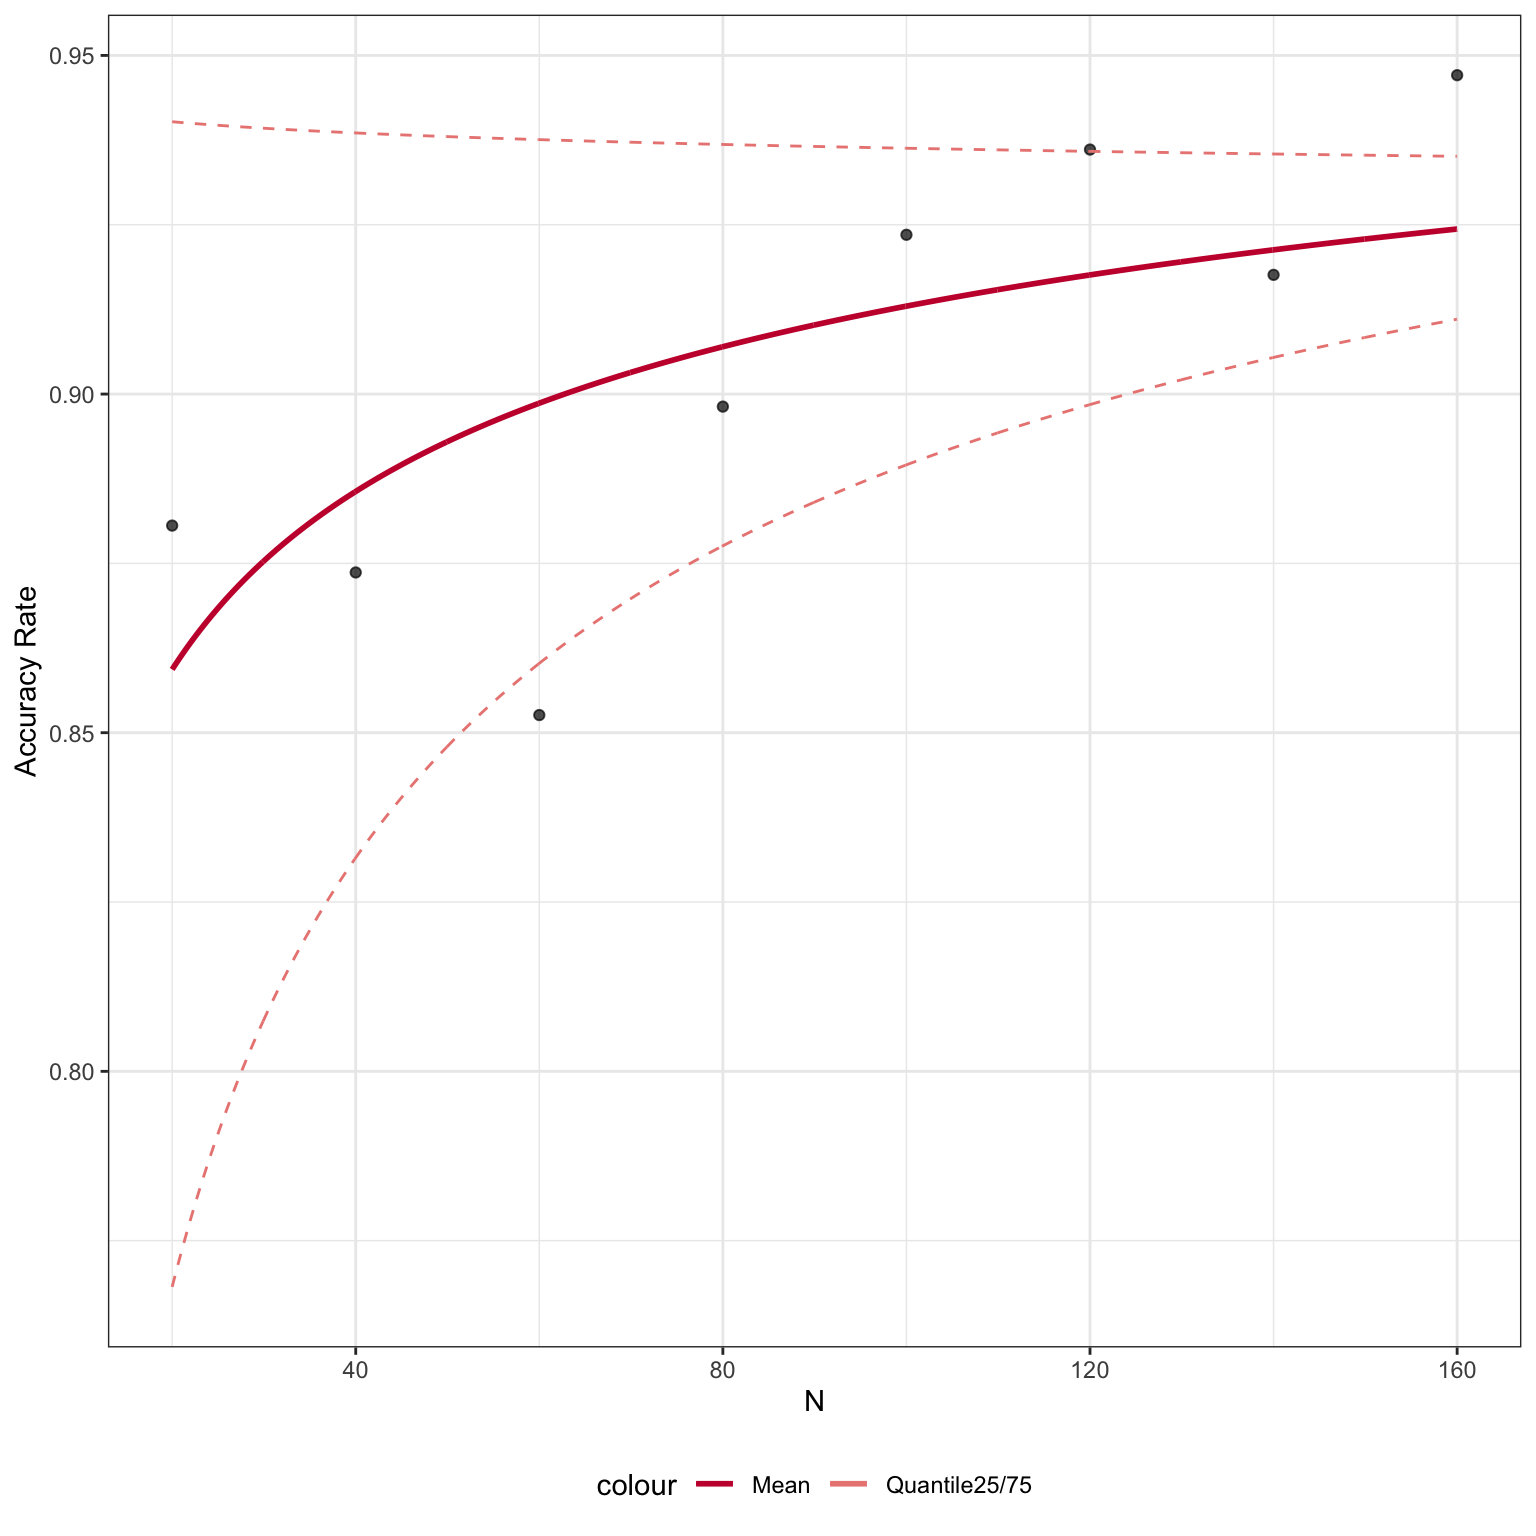
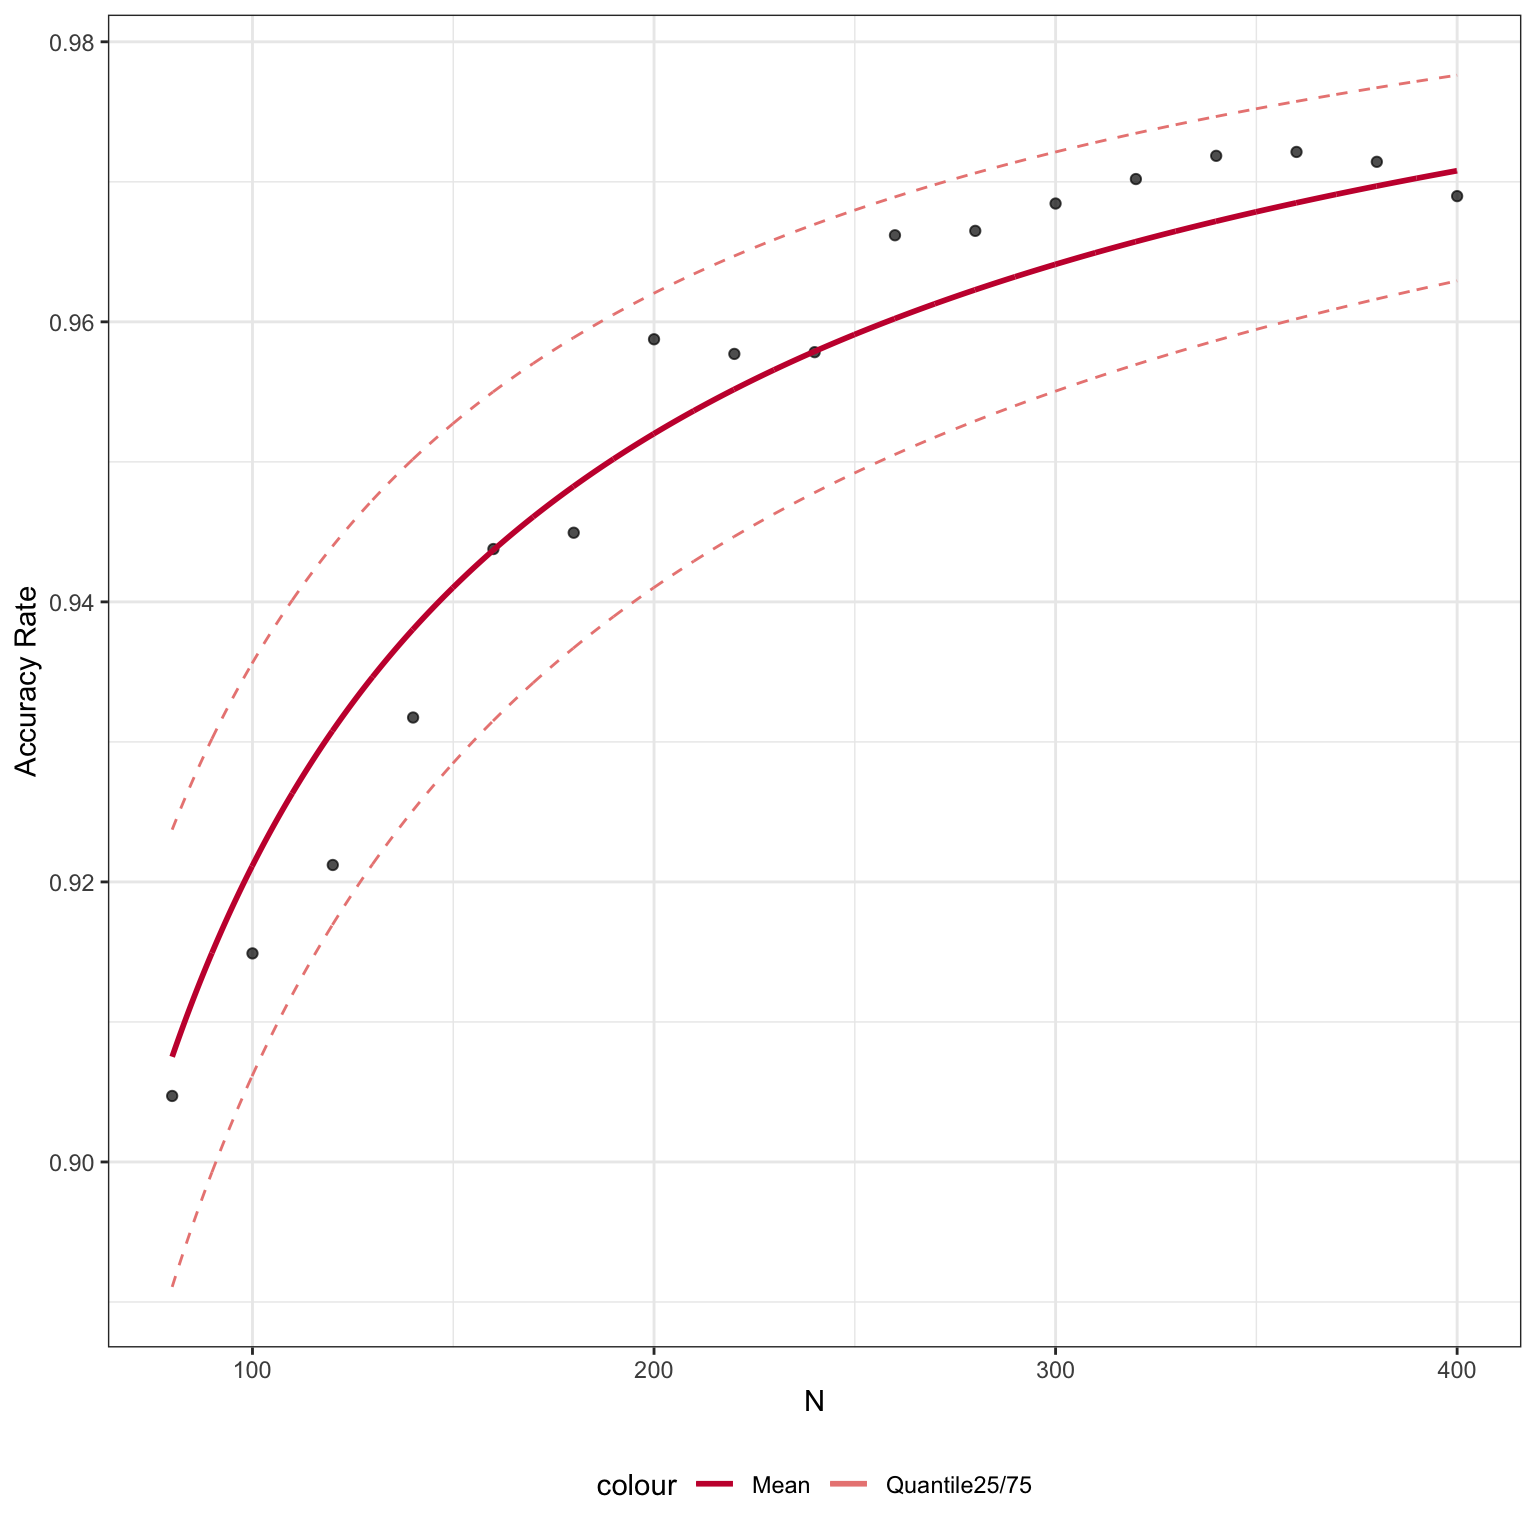
update sample size calculation

diff --git a/docs/articles/webOnly/sampleSizeCal.html b/docs/articles/webOnly/sampleSizeCal.html
@@ -212,8 +212,9 @@
 <div class="sourceCode" id="cb4"><pre class="sourceCode r"><code class="sourceCode r"><a class="sourceLine" id="cb4-1" data-line-number="1"><span class="kw"><a href="https://rdrr.io/r/base/Random.html">set.seed</a></span>(<span class="dv">2019</span>)</a>
 <a class="sourceLine" id="cb4-2" data-line-number="2"><span class="kw"><a href="https://rdrr.io/r/base/system.time.html">system.time</a></span>(accMat &lt;-<span class="st"> </span><span class="kw"><a href="../../reference/runSampleCal.html">runSampleCal</a></span>(exprsMat_xin_subset, </a>
 <a class="sourceLine" id="cb4-3" data-line-number="3">                                   xin_cellTypes,</a>
-<a class="sourceLine" id="cb4-4" data-line-number="4">                                   <span class="dt">n_list =</span> <span class="kw"><a href="https://rdrr.io/r/base/seq.html">seq</a></span>(<span class="dv">20</span>, <span class="dv">160</span>, <span class="dv">20</span>), </a>
-<a class="sourceLine" id="cb4-5" data-line-number="5">                                   <span class="dt">num_repeat =</span> <span class="dv">10</span>, <span class="dt">BPPARAM =</span> BiocParallel<span class="op">::</span><span class="kw"><a href="https://rdrr.io/pkg/BiocParallel/man/SerialParam-class.html">SerialParam</a></span>()))</a></code></pre></div>
+<a class="sourceLine" id="cb4-4" data-line-number="4">                                   <span class="dt">n_list =</span> <span class="kw"><a href="https://rdrr.io/r/base/seq.html">seq</a></span>(<span class="dv">80</span>, <span class="dv">400</span>, <span class="dv">20</span>), </a>
+<a class="sourceLine" id="cb4-5" data-line-number="5">                                   <span class="dt">num_repeat =</span> <span class="dv">20</span>,</a>
+<a class="sourceLine" id="cb4-6" data-line-number="6">                                   <span class="dt">BPPARAM =</span> BiocParallel<span class="op">::</span><span class="kw"><a href="https://rdrr.io/pkg/BiocParallel/man/MulticoreParam-class.html">MulticoreParam</a></span>(<span class="dt">workers =</span> <span class="dv">4</span>)))</a></code></pre></div>
 <p>After we obtain an accuracy matrix, we can fit the learning curve by using the <code>learningCurve</code> function.</p>
 <div class="sourceCode" id="cb5"><pre class="sourceCode r"><code class="sourceCode r"><a class="sourceLine" id="cb5-1" data-line-number="1">res &lt;-<span class="st"> </span><span class="kw"><a href="../../reference/learningCurve.html">learningCurve</a></span>(<span class="dt">accMat =</span> accMat,</a>
 <a class="sourceLine" id="cb5-2" data-line-number="2">                     <span class="dt">n =</span> <span class="kw"><a href="https://rdrr.io/r/base/numeric.html">as.numeric</a></span>(<span class="kw"><a href="https://rdrr.io/r/base/colnames.html">colnames</a></span>(accMat)))</a></code></pre></div>
@@ -223,18 +224,18 @@
 <a class="sourceLine" id="cb6-3" data-line-number="3"><span class="co">#&gt;   model: acc ~ I(1/n^(c) * a) + b</span></a>
 <a class="sourceLine" id="cb6-4" data-line-number="4"><span class="co">#&gt;    data: dat_train</span></a>
 <a class="sourceLine" id="cb6-5" data-line-number="5"><span class="co">#&gt;                 a.(Intercept) c.log(max(acc) + 0.001 - acc) </span></a>
-<a class="sourceLine" id="cb6-6" data-line-number="6"><span class="co">#&gt;                       -2.1709                        0.7204 </span></a>
+<a class="sourceLine" id="cb6-6" data-line-number="6"><span class="co">#&gt;                       -2.2881                        0.7493 </span></a>
 <a class="sourceLine" id="cb6-7" data-line-number="7"><span class="co">#&gt;                             b </span></a>
 <a class="sourceLine" id="cb6-8" data-line-number="8"><span class="co">#&gt;                        1.0000 </span></a>
-<a class="sourceLine" id="cb6-9" data-line-number="9"><span class="co">#&gt;  residual sum-of-squares: 0.02473</span></a>
+<a class="sourceLine" id="cb6-9" data-line-number="9"><span class="co">#&gt;  residual sum-of-squares: 0.0005011</span></a>
 <a class="sourceLine" id="cb6-10" data-line-number="10"><span class="co">#&gt; </span></a>
-<a class="sourceLine" id="cb6-11" data-line-number="11"><span class="co">#&gt; Number of iterations to convergence: 29 </span></a>
+<a class="sourceLine" id="cb6-11" data-line-number="11"><span class="co">#&gt; Number of iterations to convergence: 7 </span></a>
 <a class="sourceLine" id="cb6-12" data-line-number="12"><span class="co">#&gt; Achieved convergence tolerance: 1.49e-08</span></a></code></pre></div>
 <div class="sourceCode" id="cb7"><pre class="sourceCode r"><code class="sourceCode r"><a class="sourceLine" id="cb7-1" data-line-number="1">res<span class="op">$</span>plot</a></code></pre></div>
 <p><img src="sampleSizeCal_files/figure-html/unnamed-chunk-7-1.png" width="768"></p>
 <p>Using <code>getN</code> function, we can also estimate a sample size for future experiments given the accuracy rate.</p>
-<div class="sourceCode" id="cb8"><pre class="sourceCode r"><code class="sourceCode r"><a class="sourceLine" id="cb8-1" data-line-number="1"><span class="kw"><a href="../../reference/getN.html">getN</a></span>(res, <span class="dt">acc =</span> <span class="fl">0.93</span>)</a>
-<a class="sourceLine" id="cb8-2" data-line-number="2"><span class="co">#&gt; [1] 118</span></a></code></pre></div>
+<div class="sourceCode" id="cb8"><pre class="sourceCode r"><code class="sourceCode r"><a class="sourceLine" id="cb8-1" data-line-number="1"><span class="kw"><a href="../../reference/getN.html">getN</a></span>(res, <span class="dt">acc =</span> <span class="fl">0.95</span>)</a>
+<a class="sourceLine" id="cb8-2" data-line-number="2"><span class="co">#&gt; [1] 164</span></a></code></pre></div>
 </div>
 <div id="constructing-learning-curves-based-on-labels-from-higher-level-of-the-cell-type-tree" class="section level1">
 <h1 class="hasAnchor">
@@ -243,14 +244,15 @@
 <div class="sourceCode" id="cb9"><pre class="sourceCode r"><code class="sourceCode r"><a class="sourceLine" id="cb9-1" data-line-number="1"><span class="kw"><a href="https://rdrr.io/r/base/Random.html">set.seed</a></span>(<span class="dv">2019</span>)</a>
 <a class="sourceLine" id="cb9-2" data-line-number="2"><span class="kw"><a href="https://rdrr.io/r/base/system.time.html">system.time</a></span>(accMat_level1 &lt;-<span class="st"> </span><span class="kw"><a href="../../reference/runSampleCal.html">runSampleCal</a></span>(exprsMat_xin_subset, </a>
 <a class="sourceLine" id="cb9-3" data-line-number="3">                                          xin_cellTypes,</a>
-<a class="sourceLine" id="cb9-4" data-line-number="4">                                          <span class="dt">n_list =</span> <span class="kw"><a href="https://rdrr.io/r/base/seq.html">seq</a></span>(<span class="dv">20</span>, <span class="dv">160</span>, <span class="dv">20</span>),</a>
-<a class="sourceLine" id="cb9-5" data-line-number="5">                                          <span class="dt">num_repeat =</span> <span class="dv">10</span>,</a>
+<a class="sourceLine" id="cb9-4" data-line-number="4">                                          <span class="dt">n_list =</span> <span class="kw"><a href="https://rdrr.io/r/base/seq.html">seq</a></span>(<span class="dv">80</span>, <span class="dv">400</span>, <span class="dv">20</span>),</a>
+<a class="sourceLine" id="cb9-5" data-line-number="5">                                          <span class="dt">num_repeat =</span> <span class="dv">20</span>,</a>
 <a class="sourceLine" id="cb9-6" data-line-number="6">                                          <span class="dt">cellType_tree =</span> trainClassExample_xin<span class="op">@</span>cellTypeTree,</a>
 <a class="sourceLine" id="cb9-7" data-line-number="7">                                          <span class="dt">level =</span> <span class="dv">1</span>,</a>
-<a class="sourceLine" id="cb9-8" data-line-number="8">                                          <span class="dt">BPPARAM =</span> BiocParallel<span class="op">::</span><span class="kw"><a href="https://rdrr.io/pkg/BiocParallel/man/SerialParam-class.html">SerialParam</a></span>()))</a>
+<a class="sourceLine" id="cb9-8" data-line-number="8">                                          <span class="dt">BPPARAM =</span> BiocParallel<span class="op">::</span><span class="kw"><a href="https://rdrr.io/pkg/BiocParallel/man/MulticoreParam-class.html">MulticoreParam</a></span>(<span class="dt">workers =</span> <span class="dv">4</span>)))</a>
 <a class="sourceLine" id="cb9-9" data-line-number="9"></a>
 <a class="sourceLine" id="cb9-10" data-line-number="10">res_level1 &lt;-<span class="st"> </span><span class="kw"><a href="../../reference/learningCurve.html">learningCurve</a></span>(accMat_level1,</a>
-<a class="sourceLine" id="cb9-11" data-line-number="11">                            <span class="kw"><a href="https://rdrr.io/r/base/numeric.html">as.numeric</a></span>(<span class="kw"><a href="https://rdrr.io/r/base/colnames.html">colnames</a></span>(accMat_level1)))</a></code></pre></div>
+<a class="sourceLine" id="cb9-11" data-line-number="11">                            <span class="kw"><a href="https://rdrr.io/r/base/numeric.html">as.numeric</a></span>(<span class="kw"><a href="https://rdrr.io/r/base/colnames.html">colnames</a></span>(accMat_level1)),</a>
+<a class="sourceLine" id="cb9-12" data-line-number="12">                            <span class="dt">fitmodel =</span> <span class="st">"nls"</span>)</a></code></pre></div>
 <div class="sourceCode" id="cb10"><pre class="sourceCode r"><code class="sourceCode r"><a class="sourceLine" id="cb10-1" data-line-number="1">res_level1<span class="op">$</span>plot</a></code></pre></div>
 <p><img src="sampleSizeCal_files/figure-html/unnamed-chunk-10-1.png" width="768"></p>
 </div>
@@ -301,8 +303,7 @@
 <a class="sourceLine" id="cb11-42" data-line-number="42"><span class="co">#&gt; [67] gridExtra_2.3       knitr_1.26          dplyr_0.8.3        </span></a>
 <a class="sourceLine" id="cb11-43" data-line-number="43"><span class="co">#&gt; [70] zeallot_0.1.0       rprojroot_1.3-2     desc_1.2.0         </span></a>
 <a class="sourceLine" id="cb11-44" data-line-number="44"><span class="co">#&gt; [73] stringi_1.4.3       parallel_3.6.1      Rcpp_1.0.3         </span></a>
-<a class="sourceLine" id="cb11-45" data-line-number="45"><span class="co">#&gt; [76] vctrs_0.2.0         diptest_0.75-7      tidyselect_0.2.5   </span></a>
-<a class="sourceLine" id="cb11-46" data-line-number="46"><span class="co">#&gt; [79] xfun_0.11</span></a></code></pre></div>
+<a class="sourceLine" id="cb11-45" data-line-number="45"><span class="co">#&gt; [76] vctrs_0.2.0         tidyselect_0.2.5    xfun_0.11</span></a></code></pre></div>
 </div>
   </div>
 
